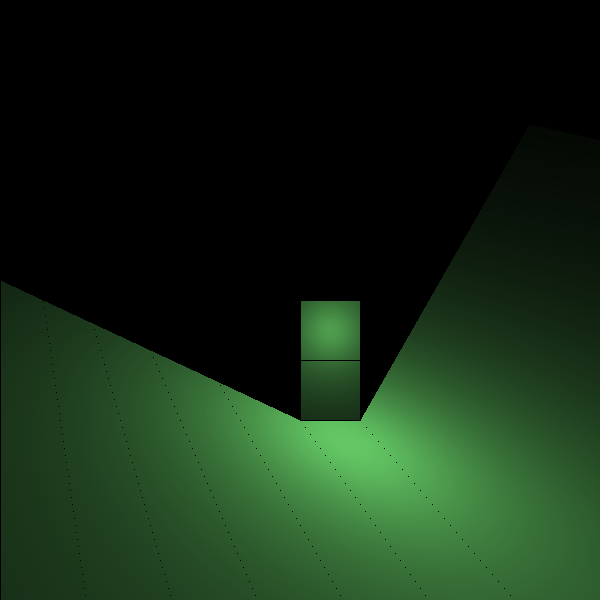
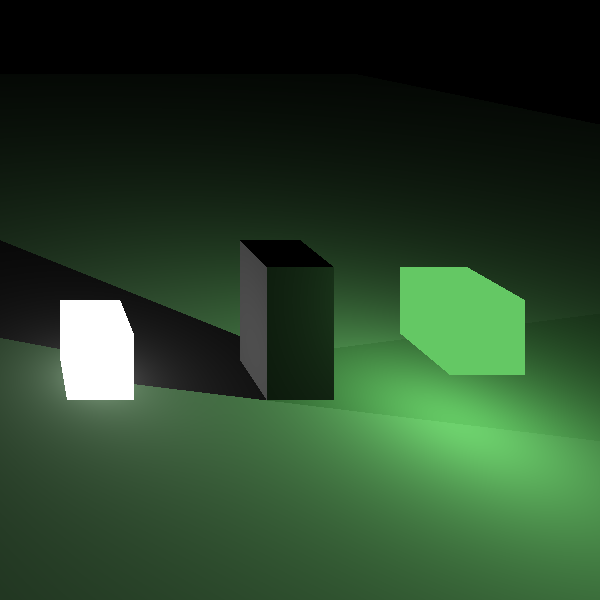
Voxel render: Fixed spot bug

diff --git a/2023/rust-voxelrender/src/main.rs b/2023/rust-voxelrender/src/main.rs
@@ -16,6 +16,12 @@ struct Vec3 {
     pub z: f64,
 }
 
+impl PartialEq for Vec3 {
+    fn eq(&self, other: &Self) -> bool {
+        self.x == other.x && self.y == other.y && self.z == other.z
+    }
+}
+
 impl Vec3 {
     fn new(x: f64, y: f64, z: f64) -> Vec3 {
         Vec3 { x, y, z }
@@ -65,30 +71,81 @@ impl Vec3 {
         (self.x * self.x + self.y * self.y + self.z * self.z).sqrt()
     }
 
-    fn prob_voxel_norm(&self) -> Vec3 {
-        let min = self.x - self.x.floor();
-        let norm = Vec3::new(-1., 0., 0.);
+    fn prob_voxel_norm(&self, dir: &Vec3) -> Vec3 {
+        let dir = dir.mulf(-1.);
+        let voxel_position = Vec3::new(self.x.floor(), self.y.floor(), self.z.floor());
+
+        // | <- voxel wall ->  |
+        // |   x <- self       |
+        // |    \  <- dir      |
+        // |     \             |
+        // |                   |
+        //
+        // [---] <- Distance to voxel wall near
+        //     [-----------] <- Distance to voxel wall far
+        //
+        // The direction is inverse because self is inside the voxel and
+        // we move beackwards to find the first wall intersection.
+        //
+        // Now we use the equation for lines in 3D:
+        //        | self.x |       | dir.x |
+        // g: x = | self.y | + r * | dir.y |
+        //        | self.z |       | dir.z |
+        //
+        // Now we can set the equation for each dimension for the correct voxel wall
+        //
+        // voxel wall = self.dim + r * dir.dim
+        //
+        // Solve for r:
+        // r = (voxel wall - self.dim) / dir.dim
+        //
+        // The normal is in the dimension wich solves for the smallest r
+
+        let mut dist_x = voxel_position.x;
+        if dir.x > 0. {
+            dist_x = voxel_position.x + 1.;
+        }
+        let mut dist_y = voxel_position.y;
+        if dir.y > 0. {
+            dist_y = voxel_position.y + 1.;
+        }
+        let mut dist_z = voxel_position.z;
+        if dir.z > 0. {
+            dist_z = voxel_position.z + 1.;
+        }
+        let step_x = (dist_x - self.x) / dir.x;
+        let step_y = (dist_y - self.y) / dir.y;
+        let step_z = (dist_z - self.z) / dir.z;
+
+        let (min, norm) = (
+            step_x,
+            if dir.x > 0. {
+                Vec3::new(1., 0., 0.)
+            } else {
+                Vec3::new(-1., 0., 0.)
+            },
+        );
         let (min, norm) = min_or(
             min,
-            self.x.floor() + 1. - self.x,
+            step_y,
             norm,
-            Vec3::new(1., 0., 0.),
+            if dir.y > 0. {
+                Vec3::new(0., 1., 0.)
+            } else {
+                Vec3::new(0., -1., 0.)
+            },
         );
-        let (min, norm) = min_or(min, self.y - self.y.floor(), norm, Vec3::new(0., -1., 0.));
-        let (min, norm) = min_or(
-            min,
-            self.y.floor() + 1. - self.y,
-            norm,
-            Vec3::new(0., 1., 0.),
-        );
-        let (min, norm) = min_or(min, self.z - self.z.floor(), norm, Vec3::new(0., 0., -1.));
         let (_, norm) = min_or(
             min,
-            self.z.floor() + 1. - self.z,
+            step_z,
             norm,
-            Vec3::new(0., 0., 1.),
+            if dir.z > 0. {
+                Vec3::new(0., 0., 1.)
+            } else {
+                Vec3::new(0., 0., -1.)
+            },
         );
-        return norm;
+        norm
     }
 }
 
@@ -130,44 +187,36 @@ impl Cube {
         let pos = self.fpos;
         let size = self.size as f64;
 
-        !(pos.x > p.x
-            || pos.x + size <= p.x
-            || pos.y > p.y
-            || pos.y + size <= p.y
-            || pos.z > p.z
-            || pos.z + size <= p.z)
+        !(pos.x >= p.x
+            || pos.x + size < p.x
+            || pos.y >= p.y
+            || pos.y + size < p.y
+            || pos.z >= p.z
+            || pos.z + size < p.z)
     }
 
     fn contains(&self, p: &Point) -> bool {
-        !(self.pos.x > p.x
-            || self.pos.x + self.size <= p.x
-            || self.pos.y > p.y
-            || self.pos.y + self.size <= p.y
-            || self.pos.z > p.z
-            || self.pos.z + self.size <= p.z)
+        !(self.pos.x >= p.x
+            || self.pos.x + self.size < p.x
+            || self.pos.y >= p.y
+            || self.pos.y + self.size < p.y
+            || self.pos.z >= p.z
+            || self.pos.z + self.size < p.z)
     }
 
     fn max_marchable_distance(&self, p: &Vec3, d: &Vec3) -> f64 {
-        let bpos = self.pos.to_vec3();
+        let bpos = self.fpos;
         let size = self.size as f64;
-        let dx = if d.x > 0. {
-            bpos.x + size - p.x
-        } else {
-            p.x - bpos.x
-        };
-        let dy = if d.y > 0. {
-            bpos.y + size - p.y
-        } else {
-            p.y - bpos.y
-        };
-        let dz = if d.z > 0. {
-            bpos.z + size - p.z
-        } else {
-            p.z - bpos.z
-        };
+        let dx = if d.x > 0. { bpos.x + size } else { bpos.x };
+        let dy = if d.y > 0. { bpos.y + size } else { bpos.y };
+        let dz = if d.z > 0. { bpos.z + size } else { bpos.z };
 
-        // dx = V_x * x solve for x: x = dx / Vx
-        (dx / d.x).abs().min((dy / d.y).abs()).min((dz / d.z).abs())
+        // dx = P_x + V_x * x solve for x: x = (dx - P_x) / Vx
+        let min = ((dx - p.x) / d.x)
+            .abs()
+            .min(((dy - p.y) / d.y).abs())
+            .min(((dz - p.z) / d.z).abs());
+        min
     }
 
     fn center(&self) -> Vec3 {
@@ -302,15 +351,15 @@ where
     }
 
     fn index_of(&self, p: &Vec3) -> usize {
-        let hs = self.bounds.size as f64 * 0.5;
+        let hs = (self.bounds.size / 2) as f64;
         let mut idx = 0;
-        if p.x > self.bounds.fpos.x + hs {
+        if p.x >= self.bounds.fpos.x + hs {
             idx |= 0b100;
         }
-        if p.y > self.bounds.fpos.y + hs {
+        if p.y >= self.bounds.fpos.y + hs {
             idx |= 0b010;
         }
-        if p.z > self.bounds.fpos.z + hs {
+        if p.z >= self.bounds.fpos.z + hs {
             idx |= 0b001;
         }
         idx
@@ -355,34 +404,35 @@ where
 
 const MAX_SAMPLE_STEPS: usize = 1000;
 const MAX_DISTANCE: f64 = 100.;
-const MIN_DISTANCE: f64 = 0.0001;
-const PUSH_ANALAYZE_DISTANCE: f64 = 0.000000001;
+const MIN_DISTANCE: f64 = 1e-7;
+const PUSH_ANALAYZE_DISTANCE: f64 = 1e-9;
 
-fn cast_to_hit<T>(pos: &mut Vec3, dir: &Vec3, tree: &Octree<T>) -> Option<T>
+fn cast_to_hit<T>(mut pos: Vec3, dir: &Vec3, tree: &Octree<T>) -> (Option<T>, Vec3)
 where
     T: Clone,
 {
-    let dir_len = dir.len();
     let mut total_len = 0.;
     for _ in 0..MAX_SAMPLE_STEPS {
         if !tree.bounds.containsf(&pos) {
-            return None;
+            return (None, pos);
         }
         let (v, d) = tree.find_closest(&pos, &dir);
         if let Some(v) = v {
-            return Some(v.clone());
+            return (Some(v.clone()), pos);
         }
-        if d < 0. {
-            panic!("d = {d}");
-        }
-        *pos = pos.add(&dir.mulf(d + PUSH_ANALAYZE_DISTANCE));
-        total_len += dir_len * (d + PUSH_ANALAYZE_DISTANCE);
+        let buf = if d < PUSH_ANALAYZE_DISTANCE {
+            PUSH_ANALAYZE_DISTANCE
+        } else {
+            d
+        };
+        pos = pos.add(&dir.mulf(buf));
+        total_len += buf;
         if total_len > MAX_DISTANCE {
-            return None;
+            return (None, pos);
         }
     }
     println!("Step limit");
-    return None;
+    return (None, pos);
 }
 
 type MatTree = Octree<RoughVoxel>;
@@ -397,45 +447,55 @@ fn render(
     tree: &MatTree,
     ltree: &LightTree,
 ) {
+    let camera = Vec3::new(0., 0., 0.);
     let unit = w / workers;
+    let wh = w as f64 / 2.;
     let start = unit * worker;
     let stop = (worker + 1) * unit;
     let mut px = 0;
     for i in (start)..(stop) {
         for j in 0..h {
-            let mut pos = Vec3::new(0., 0., 0.);
-            let dir = Vec3::new(i as f64, j as f64, 600.).normalized();
-            if let Some(v) = cast_to_hit(&mut pos, &dir, tree) {
-                // let level = ((1. / (pos.len() as f64 / 7.)).powi(2) * 65536.) as u16;
-                // buf[px] = v.color;
-                let voxpos = pos.clone();
-                let normal = pos.prob_voxel_norm();
+            let dir = Vec3::new(i as f64 + MIN_DISTANCE, j as f64 + MIN_DISTANCE, 600.).normalized();
+            let (voxel, solidpos) = cast_to_hit(camera, &dir, tree);
+            if let Some(v) = voxel {
+                let voxpos = solidpos.clone();
+                let normal = solidpos.prob_voxel_norm(&dir);
+                if normal != Vec3::new(0., -1., 0.) {
+                    // println!("Normal: {:?}, Voxpos: {:?}, dir: {:?}", normal, voxpos, dir);
+                }
                 let albedo = color_to_f(&v.color);
                 let mut currentc = Vec3::new(0., 0., 0.);
                 let color = &mut currentc;
-                ltree.query(&pos, 100., |e, lightvox| {
+                ltree.query(&solidpos, 100., |e, lightvox| {
                     let dest = lightvox.center();
-                    let pos = pos.add(&normal.mulf(5. * MIN_DISTANCE));
-                    let dir = dest.sub(&pos).normalized();
-                    let mut posmat = pos.clone();
-                    cast_to_hit(&mut posmat, &dir, tree);
-                    let mut poslight = pos.clone();
-                    if let None = cast_to_hit(&mut poslight, &dir, ltree) {
+                    let pos = solidpos.add(&normal.mulf(5. * MIN_DISTANCE));
+                    let dir = dest.sub(&solidpos).normalized();
+                    let posmat = pos.clone();
+                    let (_, posmat) = cast_to_hit(posmat, &dir, tree);
+                    let poslight = pos.clone();
+                    let (lvoxel, poslight) = cast_to_hit(poslight, &dir, ltree);
+                    if let None = lvoxel  {
                         panic!("\nBlocked: {:?} Light: {:?}\n Voxel: {:?}\n Dest: {:?}\n LPos: {:?}\n BPos: {:?}\n Start: {:?}\n Normal: {:?}\n Dir: {:?}\n", posmat.sub(&pos).len(), poslight.sub(&pos).len(), voxpos, dest, poslight, posmat, pos, normal, dir);
                     }
-                    if poslight.sub(&pos).len() < posmat.sub(&pos).len() {
+                    if poslight.sub(&pos).len() < posmat.sub(&solidpos).len() {
+                        // color += e.emission * e.color * albedo * (normal \cdot dir)
                         *color =
-                             color.add(&color_to_f(&e.color).mul(&albedo.mulf(normal.dot(&dir))));
+                             color.add(&color_to_f(&e.color).mul(&albedo.mulf(normal.dot(&dir))).mulf(e.emission as f64 / 255.));
                         // *color = Vec3::new(0., 255., 255.);
                         // println!("Light hit: {:?} from {:?} to {:?}", e, pos, poslight);
+                        // println!("Norm: {:?}", normal);
                     } else {
                         // println!("Blocked: {:?} Light: {:?}\n LPos: {:?}\n BPos: {:?}\n Start: {:?}\n Normal: {:?}", posmat.sub(&pos).len(), poslight.sub(&pos).len(), poslight, posmat, pos, normal);
                     }
                 });
                 buf[px] = f_to_color(color);
             }
-            if let Some(v) = cast_to_hit(&mut pos, &dir, ltree) {
-                buf[px] = v.color;
+            let solid_dist = camera.sub(&solidpos).len();
+            let lpos = camera.clone();
+            if let (Some(v), lpos) = cast_to_hit(lpos, &dir, ltree) {
+                if camera.sub(&lpos).len() < solid_dist {
+                    buf[px] = v.color;
+                }
             }
             px += 1;
         }
@@ -443,14 +503,19 @@ fn render(
 }
 
 fn main() {
-    let mut ltree = Octree::new(Cube::new(-1, -1, -1, 128));
-    let mut tree = Octree::new(Cube::new(-1, -1, -1, 128));
+    let mut ltree = Octree::new(Cube::new(-1, -1, -1, 64));
+    let mut tree = Octree::new(Cube::new(-1, -1, -1, 64));
 
     tree.insert(Point::new(5, 5, 10), RoughVoxel::new([200, 200, 200], 255));
     tree.insert(Point::new(5, 6, 10), RoughVoxel::new([200, 200, 200], 100));
     ltree.insert(
-        Point::new(5, 5, 9),
+        Point::new(7, 5, 9),
         EmissionVoxel::new([100, 200, 100], 255),
+    );
+
+    ltree.insert(
+        Point::new(2, 6, 10),
+        EmissionVoxel::new([255, 255, 255], 100),
     );
 
     for x in 0..30 {
@@ -461,7 +526,7 @@ fn main() {
     let now = Instant::now();
     let mut buffer = ImageBuffer::new(600, 600);
     let mut data = Box::new([[0, 0, 0] as Color; 600 * 600]);
-    let thread_count = 1;
+    let thread_count = 12;
     let chunks = data.chunks_mut((600 / thread_count) * 600);
     let treeref = &tree;
     let ltreeref = &ltree;
